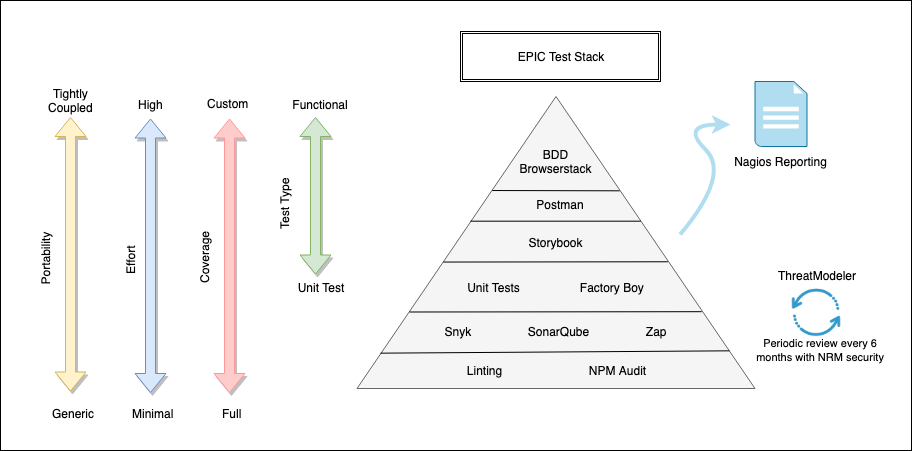
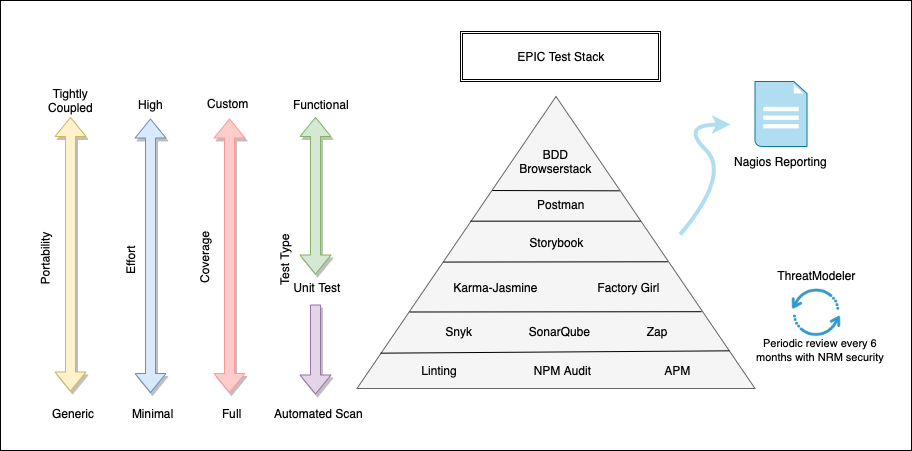
Documentation of data generation paths

diff --git a/dev_guides/testing_components.md b/dev_guides/testing_components.md
@@ -2,29 +2,30 @@
 
 Testing is expensive so we wish to develop automated tests as part of our continuous integration pipeline. Automated testing is reliable in that tests are automatically run by tools and scripts. It is also significantly faster than manual testing, and can be run frequently. Manual testing does not scale well, especially considering sprints that have a fixed amount of time and cannot afford to dedicate time for manual testing every time.
 
-
 ![alt text](images/manual_testing_cost.png "Epic Testing Pyramind")
+
 ## EPIC Testing Components
-Testing components that the team discussed we will use are as follows:
+
+![alt text](images/epic_test_stack.png "Epic Testing Pyramind")
+
+The levels of the test pyramid correspond to the amount of  portability, effort, and coverage of the the test/tool.
+
+Testing components used are as follows:
 
 * **BDD Stack** for functional testing
 * **Postman** for testing API
 * **Storybook** to test Bit common components
+* **Karma-Jasmine** to run local unit tests to test individual units of software
+* **Factory Girl** for easy handling of nested objects containing fake data provided by Faker
 * **Snyk** for version and security vulnerability scanning
 * **SonarQube** for static code analysis
 * **Zap** for security WAVA (web application vulnerability assessment) scanning
 * **Linting** to ensure code readability
 * **NPM Audit** for vulnerability scans related to npm modules
-* **ThreatModeler** for security threat modeling 
-* **Unit Tests** to test individual units of software
-* **Factory Boy** for test data generation
-* **ThreatModeler** is an automated threat modeling solution to be run periodically with NRM security
+* **APM** for application performance measurement in order to detect inefficient code and bugs that users do not report
+* **ThreatModeler** for security threat modeling to be run periodically with NRM security
 * **Nagios Reporting** to consolidate the results of all tests into one report
 
-## EPIC Testing Stack
+## Data Generation Use Cases
 
-See below for a diagram of our proposed EPIC Testing Stack.
-
-We also rank the levels of the test pyramid in regards to portability, effort, and coverage of the the test/tool.
-
-![alt text](images/epic_test_stack.png "Epic Testing Pyramind")
+![alt text](images/epic_data_generation.png "Epic Data Generation Use Cases")
